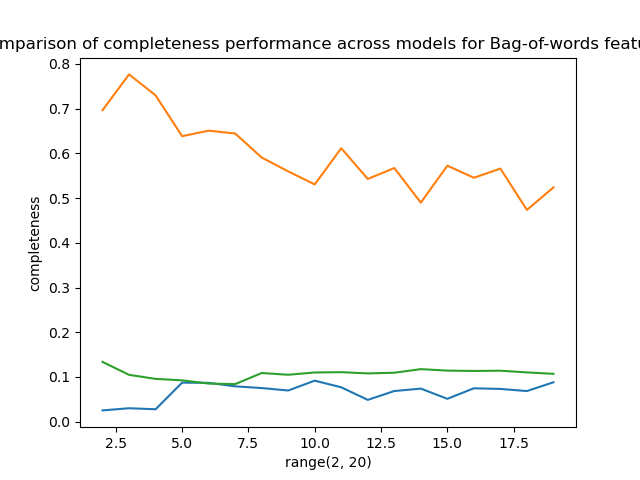
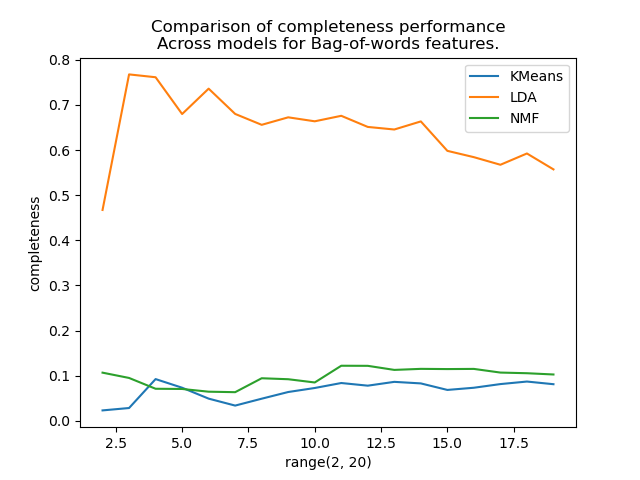
optimization graphs!!!

diff --git a/models/AXpipelineOptimization.py b/models/AXpipelineOptimization.py
@@ -62,7 +62,7 @@ def main():
    _yLabel = "top category"
 
    numClasses = 10 # value is used later on
-   numDataPoints = 20000 # value is used later on - roughly 13,000 manuscripts per topic assuming even distribution
+   numDataPoints = 25000 # value is used later on - roughly 13,000 manuscripts per topic assuming even distribution
    #####################################################
 
    # open the data file
@@ -156,6 +156,8 @@ def main():
          masterDict = {}
 
          for _modelLabel, _model in _models.items():
+            if (_featLabel == "BERT" and (_modelLabel == "LDA" or _modelLabel == "NMF")):
+               continue
             print("\nModeling data...\n")
             silhouette = []
             calinski = []
@@ -164,6 +166,7 @@ def main():
             completeness = []
             vMeasure = []
             rand = []
+            time = []
  
             for i in numtopics:
                print(f"Training {_xLabel} with {_featLabel} features and {_modelLabel} model using {i} topics...")
@@ -178,6 +181,7 @@ def main():
                completeness.append(metrics[4])
                vMeasure.append(metrics[5])
                rand.append(metrics[6])
+               time.append(_time)
 
             metricDict = {}
             metricDict["silhouette"] = silhouette
@@ -187,14 +191,15 @@ def main():
             metricDict["completeness"] = completeness
             metricDict["vMeasure"] = vMeasure
             metricDict["rand"] = rand
+            metricDict["time"] = time
             masterDict[_modelLabel] = metricDict
             print(completeness)
 
          for _metric in metricList:
             for _modelLabel, _metrics in masterDict.items():
                plt.plot(numtopics, _metrics[_metric], label=_modelLabel)
-            plottitle = f"Comparison of {_metric} performance\nAcross models for {_featLabel} features."
-            plotname = f"Comparison of {_metric} performance across models for {_featLabel} features"
+            plottitle = f"Comparison of {_metric} performance\nAcross models for {_featLabel} features\nOn {_xLabel} data."
+            plotname = f"Comparison of {_metric} performance across models for {_featLabel} features on {_xLabel} data"
             plt.title(plottitle)
             plt.xlabel(numtopics)
             plt.ylabel(_metric)
@@ -205,7 +210,7 @@ def main():
          for _modelLabel, metrics in masterDict.items():
             metrics["num topics"] = numtopics
             df = pd.DataFrame.from_dict(metrics)
-            df.to_csv(f"Metrics for {_modelLabel} with {_featLabel} features.csv")
+            df.to_csv(f"Metrics for {_modelLabel} with {_featLabel} features on {_xLabel} data.csv")
 
 
    ### does not specify number of classes

diff --git a/models/clusteringmodel.py b/models/clusteringmodel.py
@@ -73,7 +73,7 @@ class NMF(clusteringModel):
         pass
 
     def train(self, x, nClasses, maxIter=1000, y=None, verbose=False):
-        self.model = nmf(n_components=nClasses, max_iter=maxIter, init="nndsvda", beta_loss="frobenius", alpha_W=0.00005, alpha_H=0.00005, l1_ratio=1)
+        self.model = nmf(n_components=nClasses, max_iter=maxIter, solver="mu", init="nndsvd", beta_loss="kullback-leibler", alpha_W=0.00005, alpha_H=0.00005, l1_ratio=1)
         output = self.model.fit_transform(x)
         pred = util.getTopPrediction(output)
         _silhouette, _calinskiHarabasz, _daviesBouldin, _homogeneity, _completeness, _vMeasure, _rand = util.getClusterMetrics(pred, x=x, labels=y, supervised=y is not None, verbose=verbose)

diff --git a/models/util.py b/models/util.py
@@ -52,6 +52,8 @@ def getClusterMetrics(pred, x=None, labels=None, supervised=False, verbose=True)
     # perplexity
     # coherence
     # log-likelihood
+    if (len(list(set(pred))) < 2):
+        return 0., 0., 0., 0., 0., 0., 0. # hard coded, TODO to fix in the future
     if(x is not None):
         _silhouette = metrics.silhouette_score(x, pred)
         _calinskiHarabasz = metrics.calinski_harabasz_score(x, pred)
